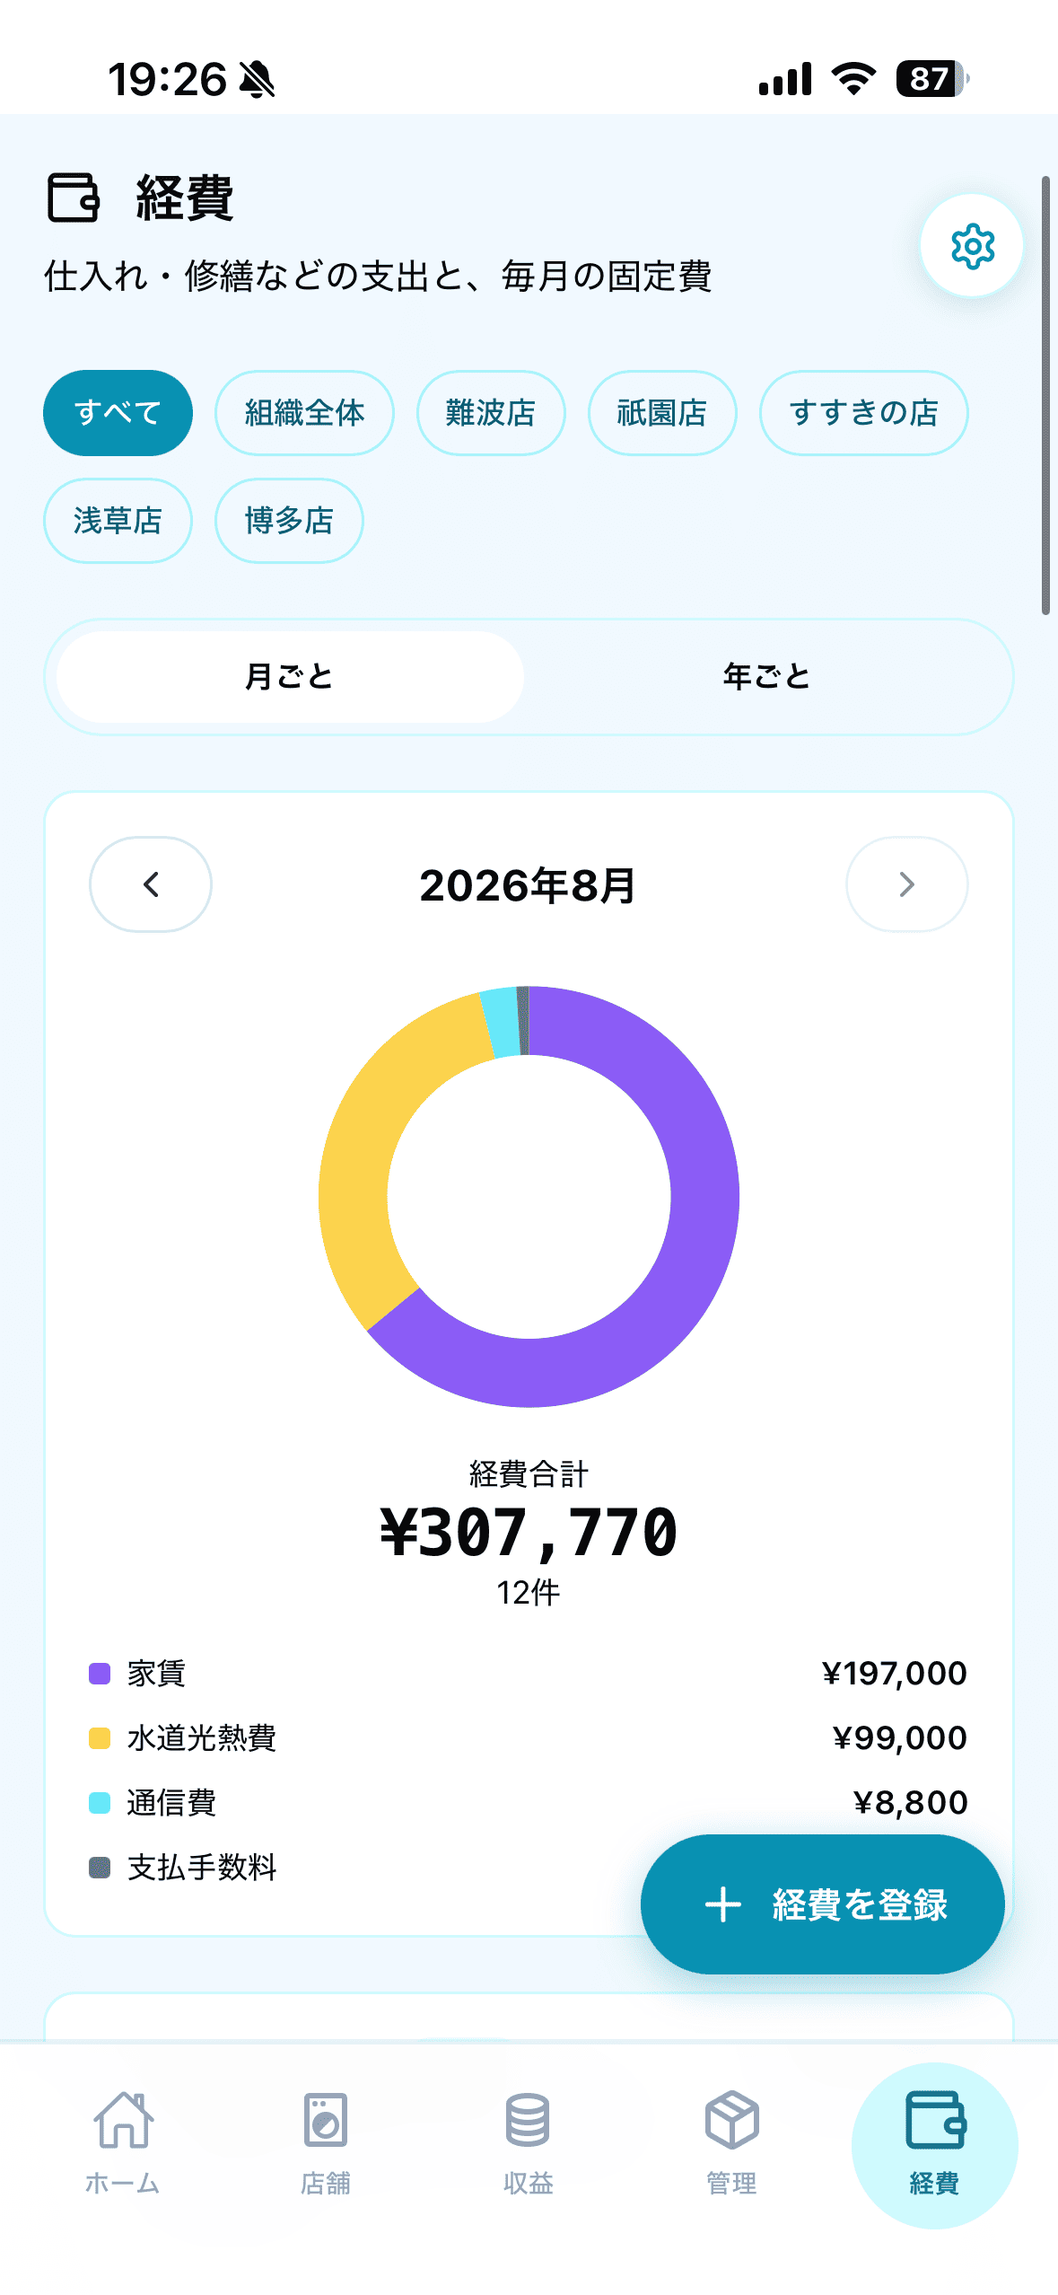
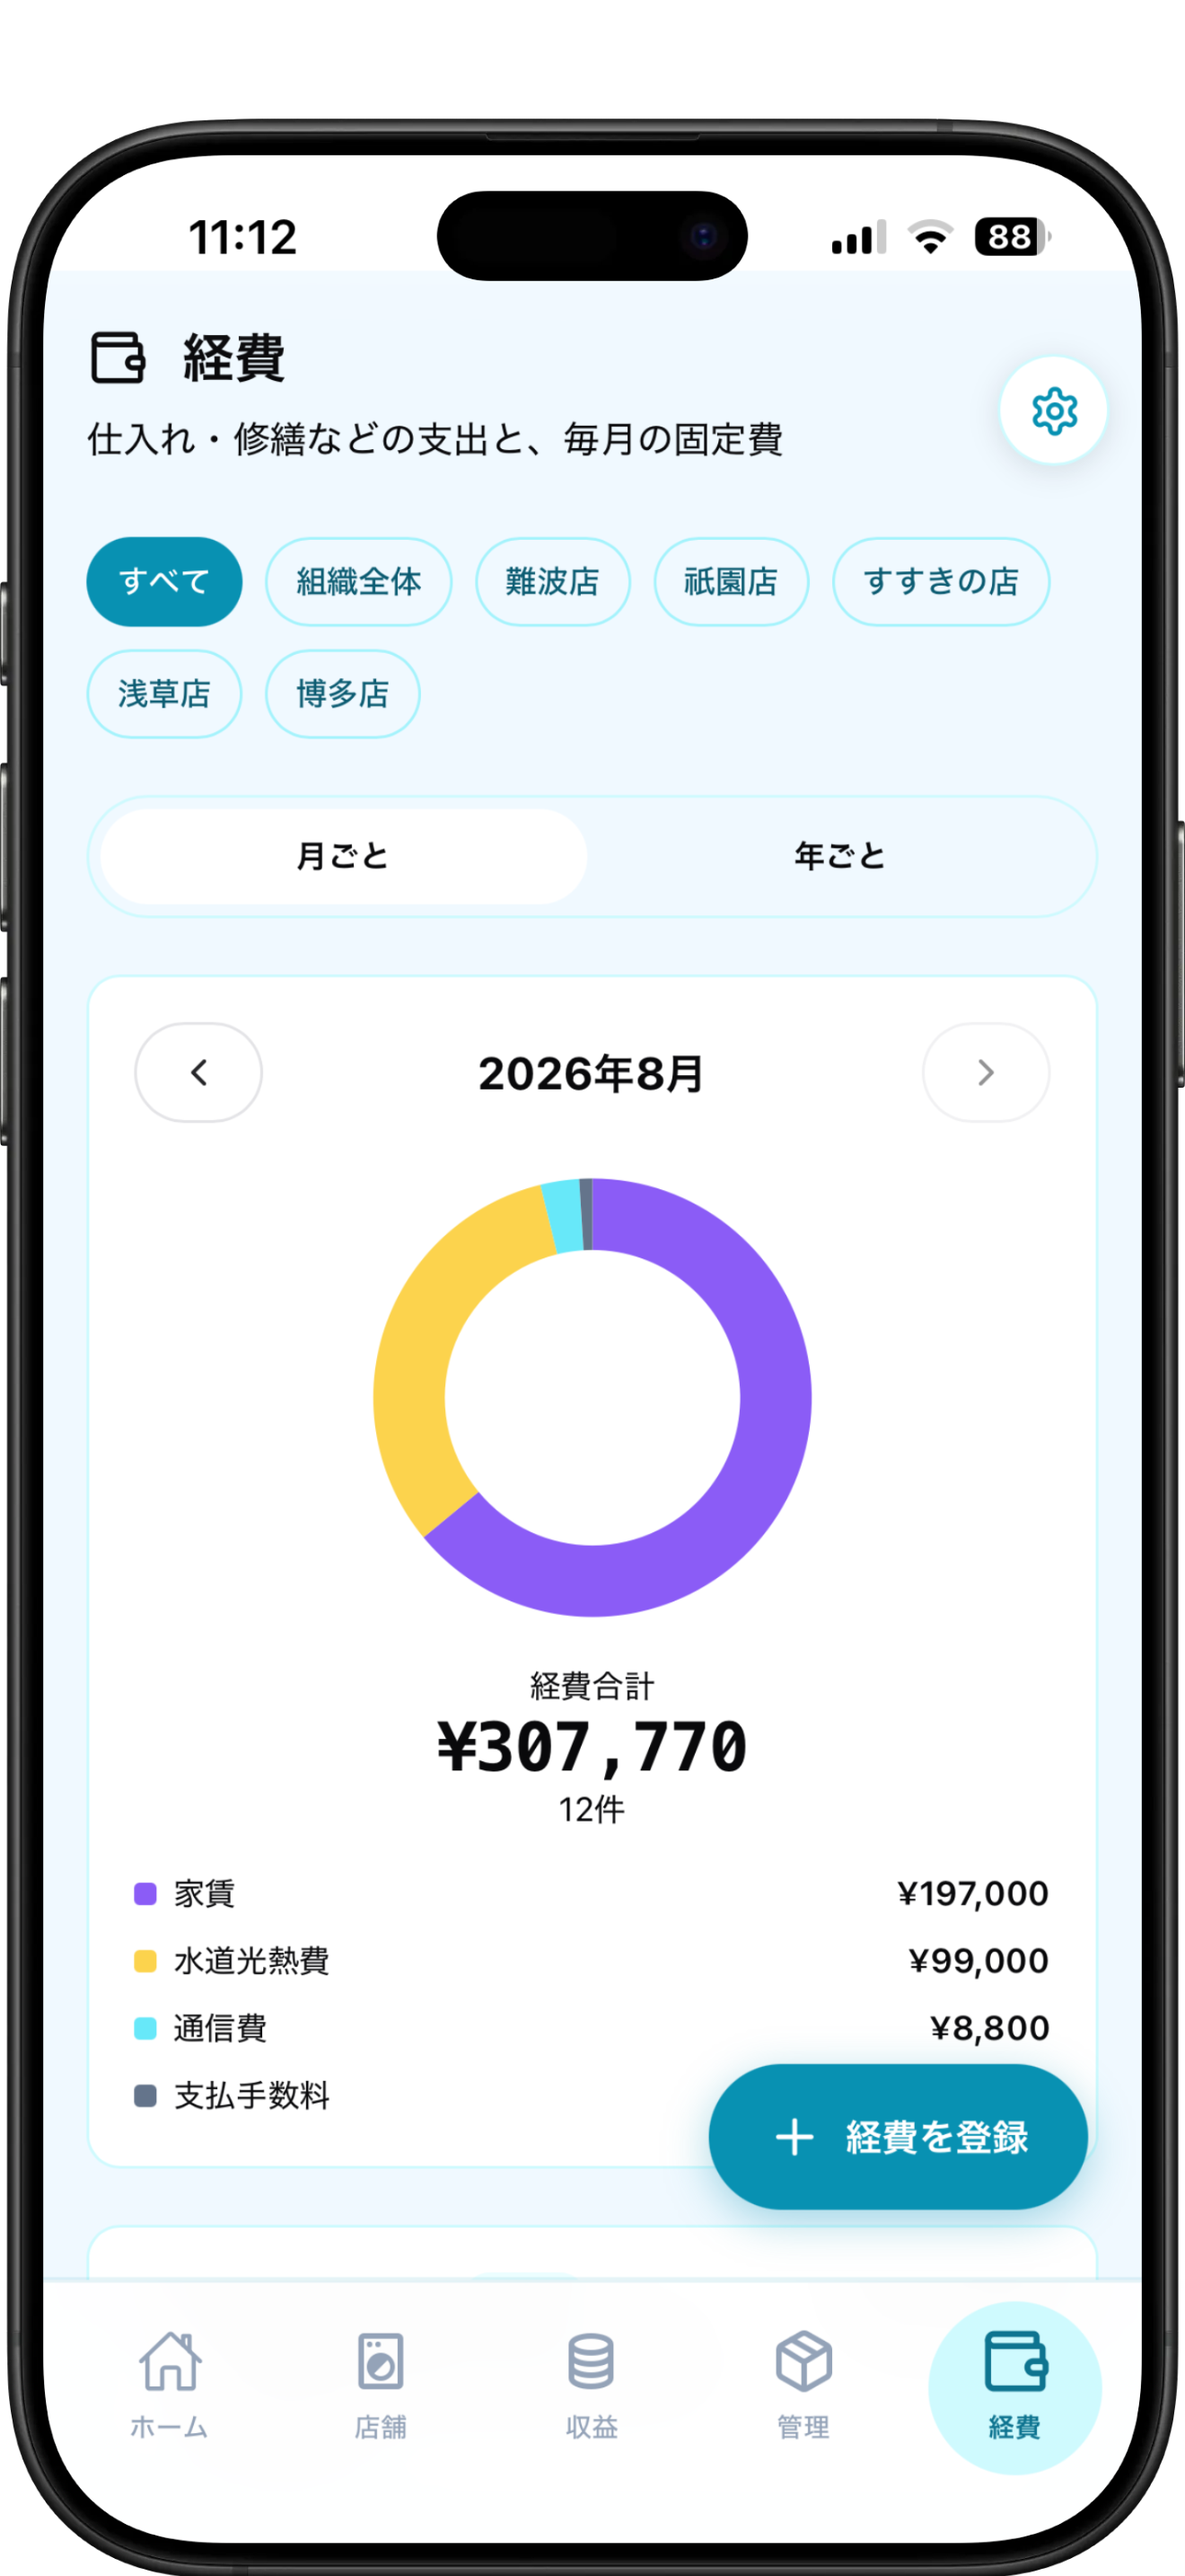
chore(screenshots): 端末の枠つきスクショに差し替え、設定を足してホームを外す
いただいた 8 枚（iPhone 16 Pro Max・1320x2868・背景透過）へ全面的に
差し替えた。用途の分かる名前に付け替えてある。

  Screenshot 1→store-list  2→store-detail  3→collect-input  4→revenue-report
            5→manage-equipment  6→manage-stock  7→expenses  8→settings

- **設定**の章はこれまで「準備中」だったので、8 枚目で埋まった
- **ホーム**は枠つきの用意が無いため `home.png`（枠なし）を削除し「準備中」に
  戻した。⚠ 1 枚だけ枠が無いと、並べたときに**そこだけ絵が破綻して見える**
  （実際に描画して確認した）。枠つきのホームをもらったら戻すこと。

⚠ **枠つきは背景が透過している。** 四角い枠・角丸・`overflow:hidden` を
   回すと**透けた角の外に線だけが浮く／枠の角が削れる**ので、
   ヘルプ・LP とも囲みを外した。影は `drop-shadow`（アルファを辿る）に統一。

⚠ **ヘルプを `next/image` に変えた。** Chakra の `Image` は素の `<img>` なので、
   9.6MB の PNG がそのまま出ていく（旧 1.6MB からの逆戻り）。
   next/image 経由なら 280px の枠に対して 50〜380KB 程度に落ちる。
   ⚠ そのため `screenshots` の各要素に実寸（w / h）を持たせてある。

LP 側も同じ実寸へ追従（FeatureShowcase 4 枚 / TopPop の重ね 1 枚）。

diff --git a/src/app/help/page.jsx b/src/app/help/page.jsx
@@ -1,5 +1,6 @@
-import { Box, Flex, HStack, Image, Text, VStack } from "@chakra-ui/react";
+import { Box, Flex, HStack, Text, VStack } from "@chakra-ui/react";
 import Link from "next/link";
+import NextImage from "next/image";
 import * as Icon from "@/app/feacher/Icon";
 
 export const metadata = {
@@ -126,16 +127,22 @@ const SectionCard = ({
             gap={3}
             align="stretch"
           >
+            {/*
+              ⚠ **枠（ボーダー・角丸・影）を付けないこと。** スクショは
+                 端末の枠込みで書き出してあり、**背景が透過している**。
+                 四角い枠を回すと、透けた角の外側に線だけが浮いて見える。
+                 影も同じ理由で画像側に任せる。
+            */}
             {screenshots.map((shot) => (
-              <Box
-                key={shot.src}
-                borderRadius="xl"
-                overflow="hidden"
-                border="1px solid"
-                borderColor="cyan.100"
-                boxShadow="var(--shadow-sm, 0 2px 12px rgba(8,145,178,0.08))"
-              >
-                <Image src={shot.src} alt={shot.alt} w="full" objectFit="cover" />
+              <Box key={shot.src}>
+                <NextImage
+                  src={shot.src}
+                  alt={shot.alt}
+                  width={shot.w}
+                  height={shot.h}
+                  sizes="(max-width: 768px) 92vw, 280px"
+                  style={{ width: "100%", height: "auto", display: "block" }}
+                />
               </Box>
             ))}
           </VStack>
@@ -283,9 +290,6 @@ export default function HelpPage() {
               "集金カウントダウンは、設定の「集金スケジュール」（毎週◯曜日 / 毎月◯日）を登録すると表示されます。",
               "クイックアクションの「集金を記録」「在庫を更新」は、閲覧者には表示されません。",
             ]}
-            screenshots={[
-              { src: "/screenshots/home.png", alt: "ホーム画面" },
-            ]}
           />
 
           {/* 店舗 */}
@@ -307,8 +311,8 @@ export default function HelpPage() {
               "支払方法を一覧から外しても、過去の集金記録からは消えません。「使わなくなった支払方法」として残るので、押せばいつでも戻せます。",
             ]}
             screenshots={[
-              { src: "/screenshots/store-list.png", alt: "店舗一覧" },
-              { src: "/screenshots/store-detail.png", alt: "店舗の詳細ページ" },
+              { src: "/screenshots/store-list.png", alt: "店舗一覧", w: 1320, h: 2868 },
+              { src: "/screenshots/store-detail.png", alt: "店舗の詳細ページ", w: 1320, h: 2868 },
             ]}
           />
 
@@ -332,8 +336,8 @@ export default function HelpPage() {
               "書き出しでは「経費と月別利益も含める」を選べます。会計ソフトへそのまま取り込むときは、集金だけの表になる既定のままが安全です。",
             ]}
             screenshots={[
-              { src: "/screenshots/collect-input.png", alt: "集金入力画面。機種別の金額とキャッシュレスの内訳" },
-              { src: "/screenshots/revenue-report.png", alt: "収益レポート。総額収益とグラフのタブ" },
+              { src: "/screenshots/collect-input.png", alt: "集金入力画面。機種別の金額とキャッシュレスの内訳", w: 1320, h: 2868 },
+              { src: "/screenshots/revenue-report.png", alt: "収益レポート。総額収益とグラフのタブ", w: 1320, h: 2868 },
             ]}
           />
 
@@ -355,7 +359,7 @@ export default function HelpPage() {
               "担当店舗が決まっているメンバーには、担当外の店舗の経費は表示されません。店舗を選ばずに登録した組織全体の支出は、全員に表示されます。",
             ]}
             screenshots={[
-              { src: "/screenshots/expenses.png", alt: "経費ページ。カテゴリ別のドーナツと内訳" },
+              { src: "/screenshots/expenses.png", alt: "経費ページ。カテゴリ別のドーナツと内訳", w: 1320, h: 2868 },
             ]}
           />
 
@@ -378,8 +382,8 @@ export default function HelpPage() {
               "機器そのものの登録は店舗ページから行います。台数を設定すると自動でここに並びます。",
             ]}
             screenshots={[
-              { src: "/screenshots/manage-stock.png", alt: "管理ページの在庫タブ" },
-              { src: "/screenshots/manage-equipment.png", alt: "管理ページの設備タブ" },
+              { src: "/screenshots/manage-stock.png", alt: "管理ページの在庫タブ", w: 1320, h: 2868 },
+              { src: "/screenshots/manage-equipment.png", alt: "管理ページの設備タブ", w: 1320, h: 2868 },
             ]}
           />
 
@@ -420,6 +424,9 @@ export default function HelpPage() {
             notes={[
               "アクションログには、誰がいつ何をしたかが記録されます。集金の取り違えや在庫の食い違いを追うときに使ってください。",
               "誤って店舗管理者として登録してしまった場合の作り直しは、アカウント作成から 3 日以内だけ設定ページの下部に表示されます。",
+            ]}
+            screenshots={[
+              { src: "/screenshots/settings.png", alt: "設定ページ", w: 1320, h: 2868 },
             ]}
           />
 

diff --git a/src/app/feacher/home/components/NotLoginUserHome/FeatureShowcase.jsx b/src/app/feacher/home/components/NotLoginUserHome/FeatureShowcase.jsx
@@ -16,8 +16,8 @@ const features = [
     ],
     src: "/screenshots/collect-input.png",
     alt: "集金入力画面",
-    imgW: 1179,
-    imgH: 2556,
+    imgW: 1320,
+    imgH: 2868,
     blobColor: "radial-gradient(circle, rgba(8,145,178,0.18) 0%, rgba(6,182,212,0.08) 60%, transparent 100%)",
     reverse: false,
   },
@@ -33,8 +33,8 @@ const features = [
     ],
     src: "/screenshots/manage-stock.png",
     alt: "在庫管理画面",
-    imgW: 1179,
-    imgH: 2556,
+    imgW: 1320,
+    imgH: 2868,
     blobColor: "radial-gradient(circle, rgba(14,116,144,0.16) 0%, rgba(8,145,178,0.06) 60%, transparent 100%)",
     reverse: true,
   },
@@ -50,8 +50,8 @@ const features = [
     ],
     src: "/screenshots/manage-equipment.png",
     alt: "設備管理画面",
-    imgW: 1179,
-    imgH: 2556,
+    imgW: 1320,
+    imgH: 2868,
     blobColor: "radial-gradient(circle, rgba(8,145,178,0.18) 0%, rgba(6,182,212,0.08) 60%, transparent 100%)",
     reverse: false,
   },
@@ -68,8 +68,8 @@ const features = [
     ],
     src: "/screenshots/revenue-report.png",
     alt: "月別売上画面",
-    imgW: 1179,
-    imgH: 2556,
+    imgW: 1320,
+    imgH: 2868,
     blobColor: "radial-gradient(circle, rgba(14,116,144,0.16) 0%, rgba(8,145,178,0.06) 60%, transparent 100%)",
     reverse: true,
   },
@@ -151,12 +151,16 @@ const FeatureRow = ({ tag, title, description, points, src, alt, imgW, imgH, blo
         }}
       />
       {/* 画像本体 */}
+      {/*
+        ⚠ **角丸で切り抜かないこと。** スクショは端末の枠込み・背景透過で
+           書き出してあるので、四角を丸く切ると**枠の角が削れる。**
+        ⚠ 影は `drop-shadow`（アルファを辿る）のまま。`box-shadow` に
+           変えると透過部分ごと四角い影が落ちる。
+      */}
       <Box
-        borderRadius="8%"
-        overflow="hidden"
         position="relative"
         zIndex={1}
-        filter="drop-shadow(0 24px 56px rgba(0,0,0,0.26))"
+        filter="drop-shadow(0 24px 48px rgba(14,116,144,0.28))"
       >
         <Image
           src={src}

diff --git a/src/app/feacher/home/components/NotLoginUserHome/TopPop.jsx b/src/app/feacher/home/components/NotLoginUserHome/TopPop.jsx
@@ -152,20 +152,19 @@ const TopPop = () => {
             </Box>
 
             {/* スマホ（月次売上）— 右下に重ねる */}
+            {/* ⚠ 角丸で切り抜かない。枠込み・背景透過のスクショなので角が削れる */}
             <Box
-              borderRadius="2xl"
-              overflow="hidden"
               position="absolute"
               bottom="-20px"
               right={{ base: "-8px", lg: "-16px" }}
-              w={{ base: "100px", lg: "140px" }}
+              w={{ base: "110px", lg: "150px" }}
               filter="drop-shadow(0 20px 40px rgba(14,116,144,0.35))"
             >
               <Image
                 src="/screenshots/revenue-report.png"
                 alt="Collecie 収益レポート（スマホ）"
-                width={1179}
-                height={2556}
+                width={1320}
+                height={2868}
                 style={{ width: "100%", height: "auto", display: "block" }}
               />
             </Box>
